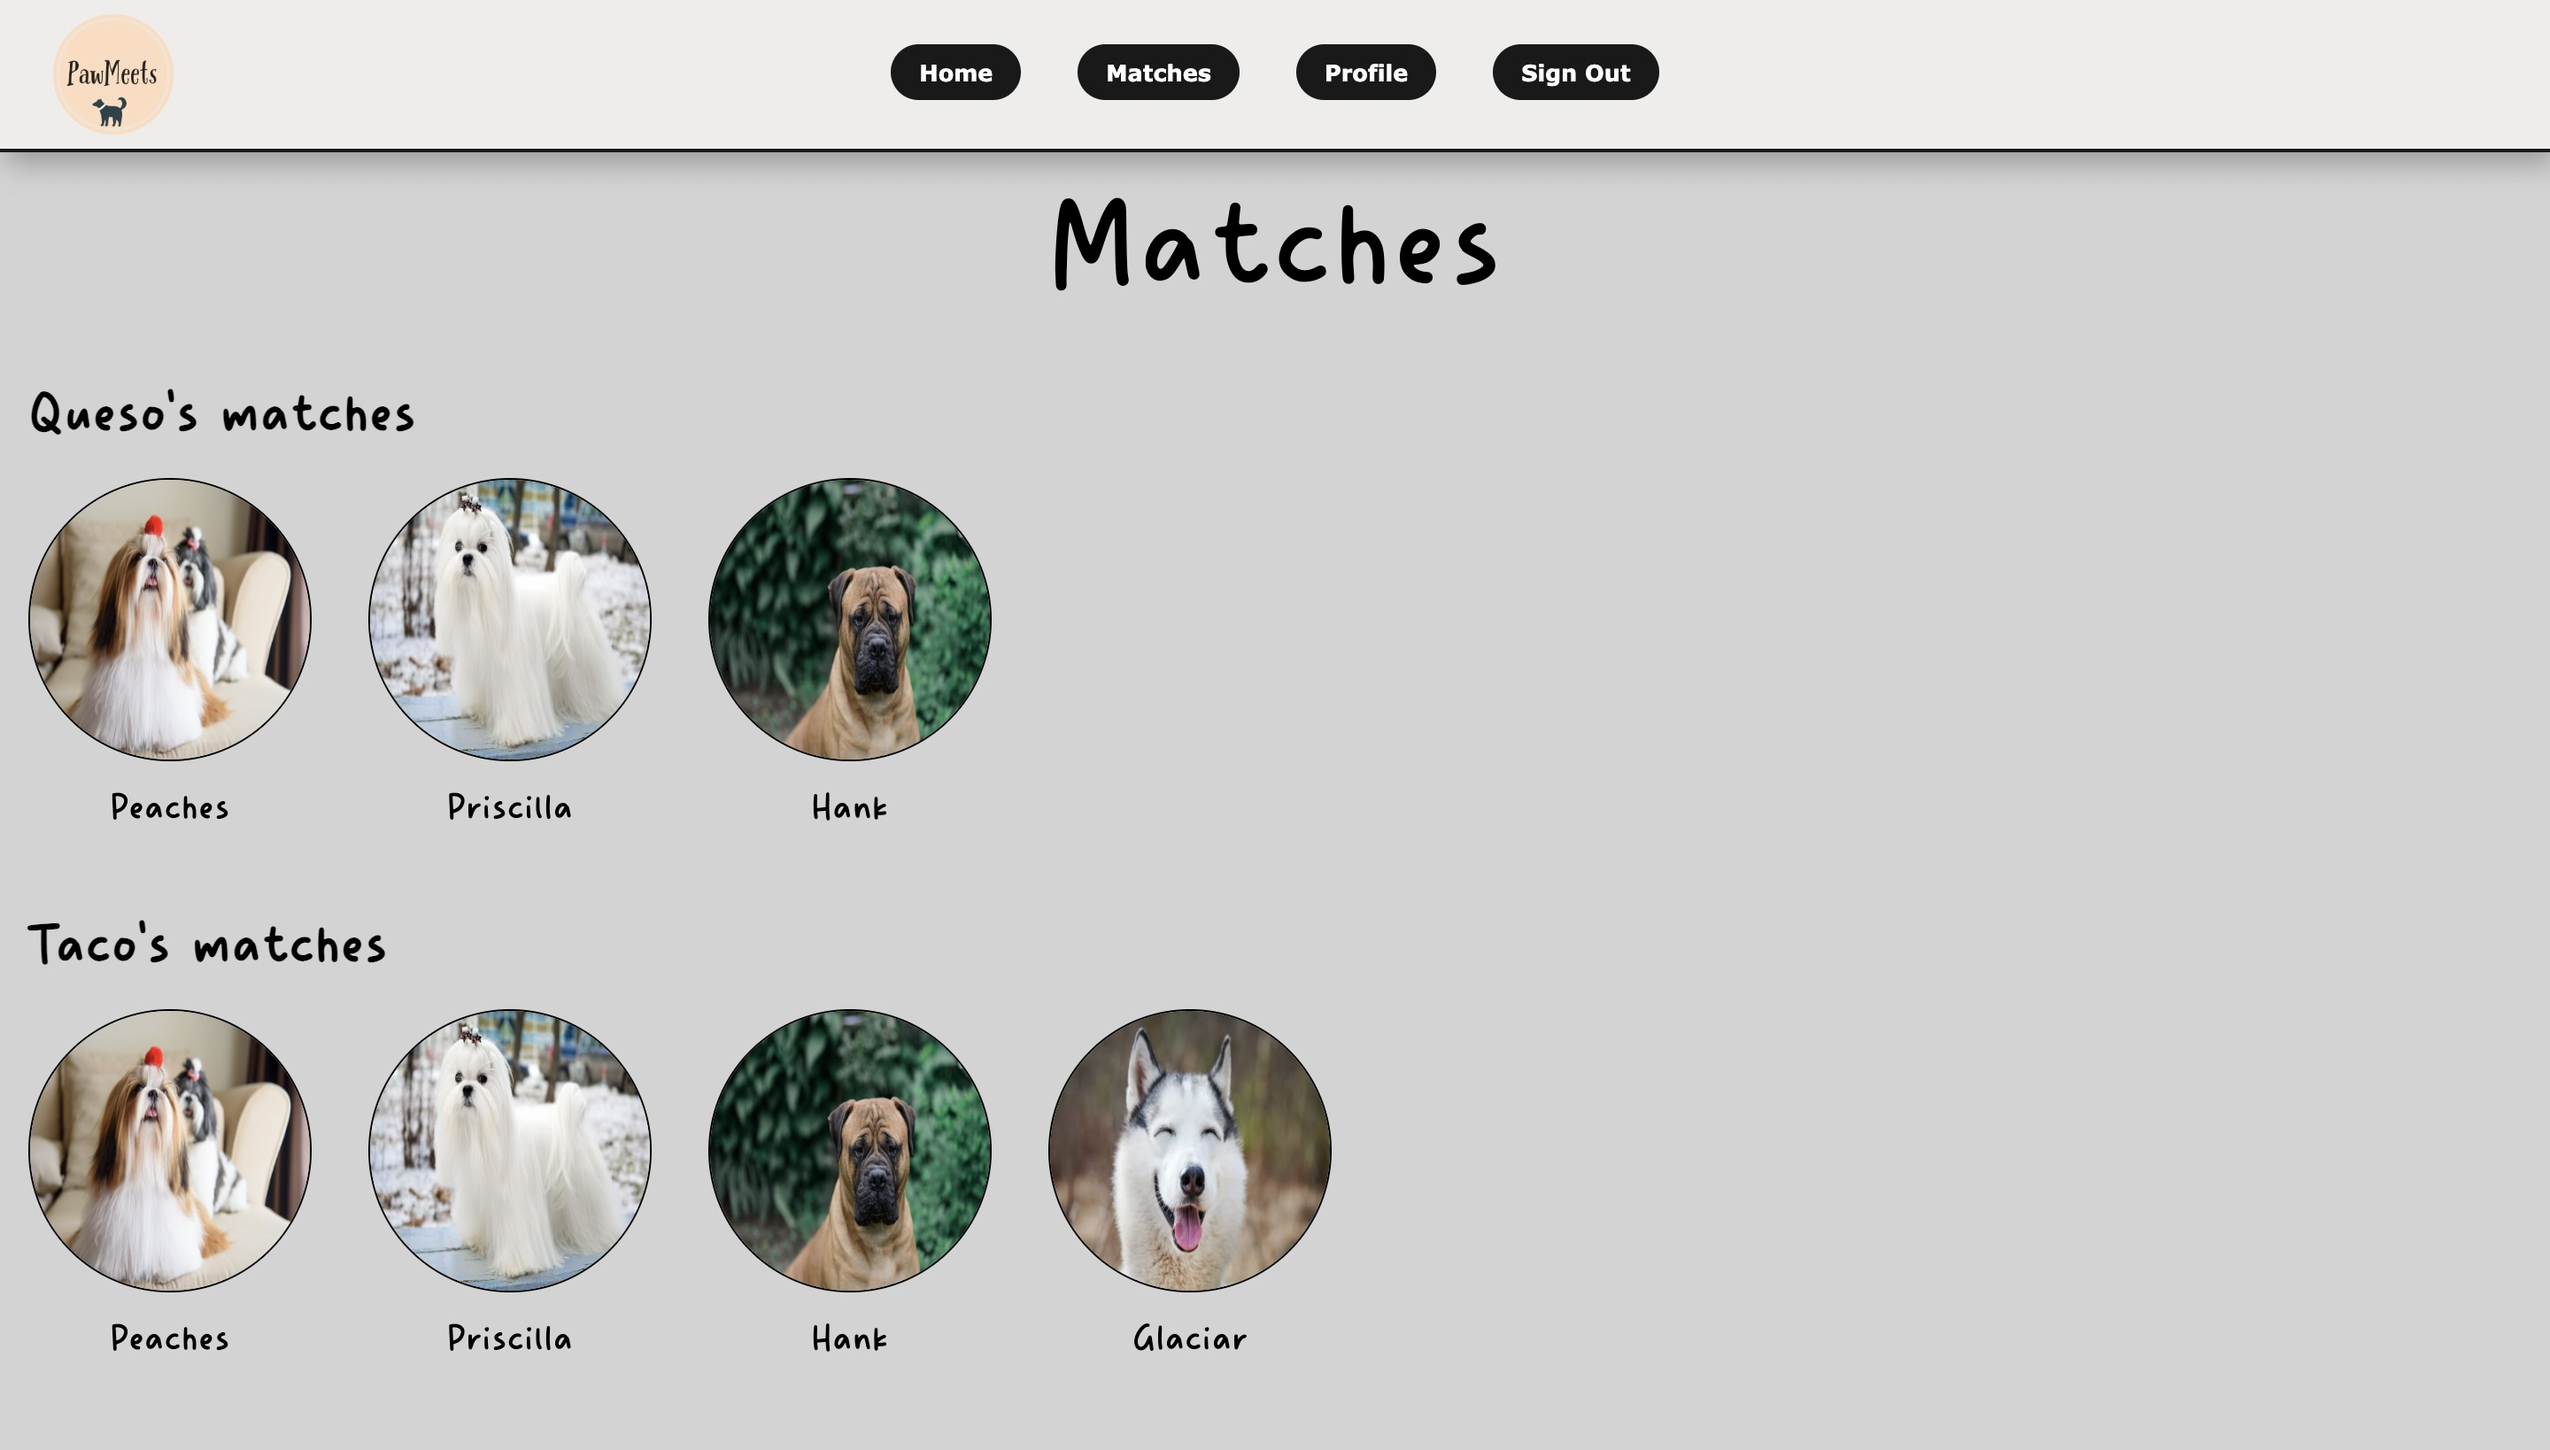
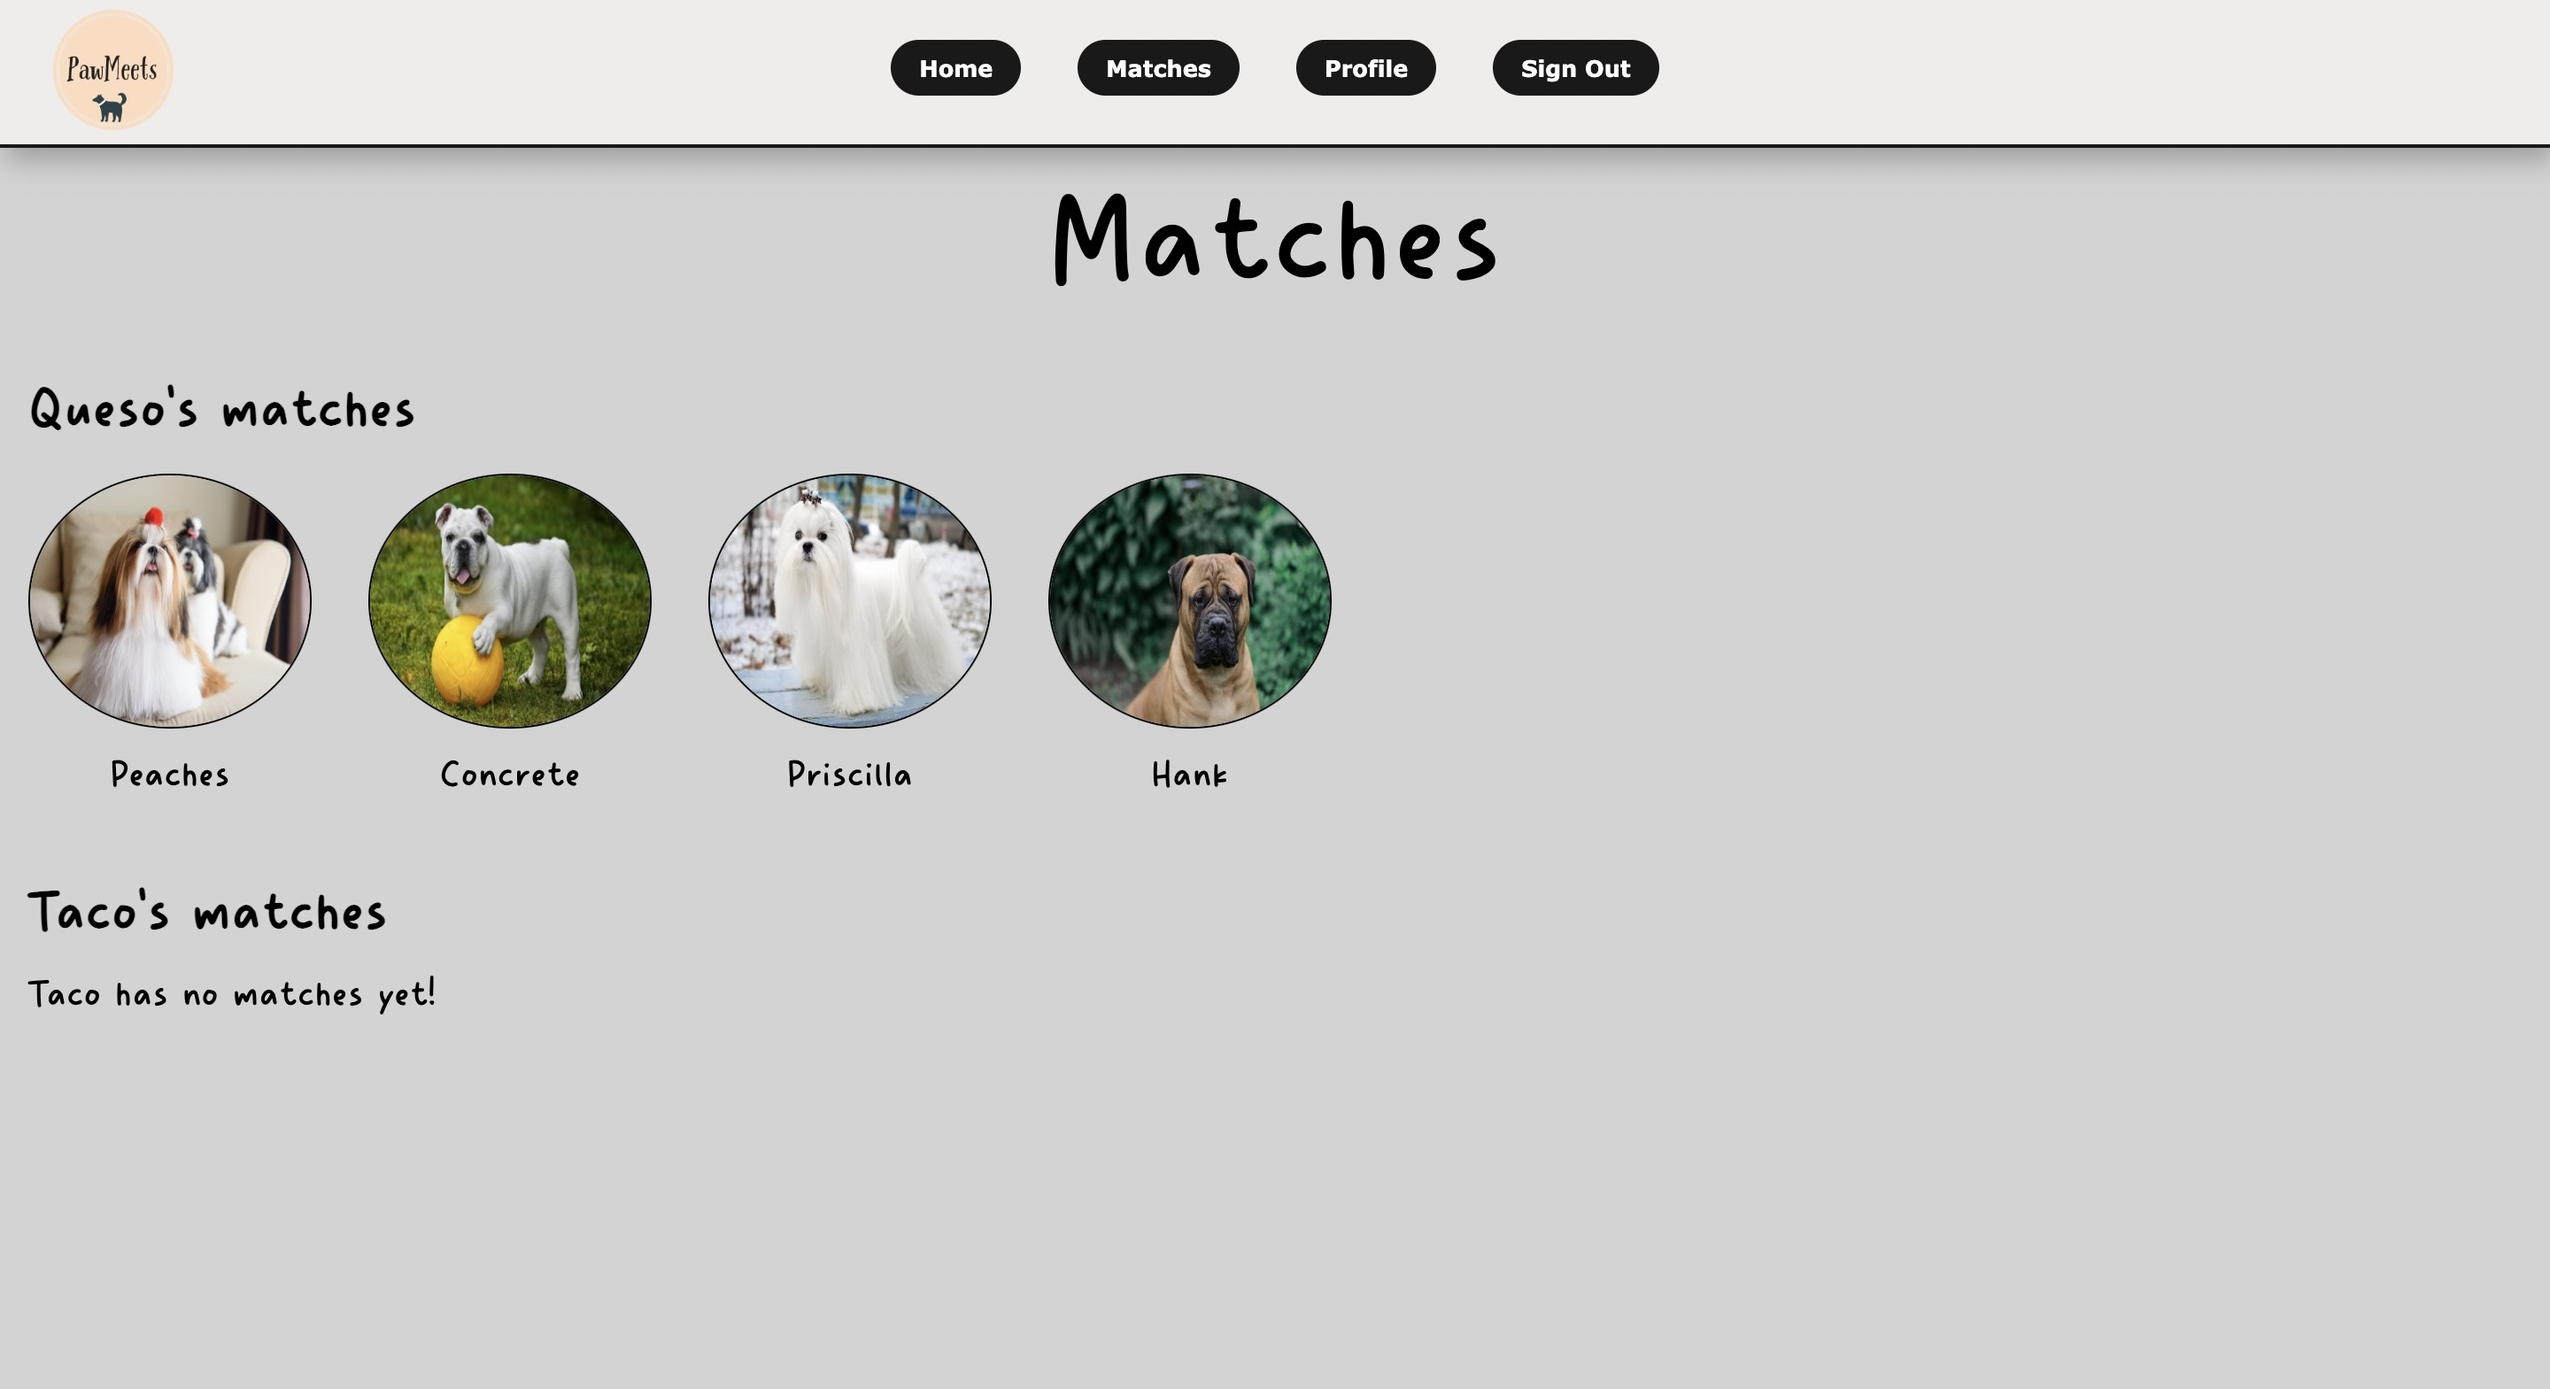
updating readme match photo

diff --git a/src/screens/Matches/Matches.css b/src/screens/Matches/Matches.css
@@ -37,7 +37,7 @@
 
 .match-image {
     width: 10rem;
-    height: 10rem;
+    height: 9rem;
     border-radius: 50%;
     margin-bottom: 1rem;
     border: 1px solid black;
